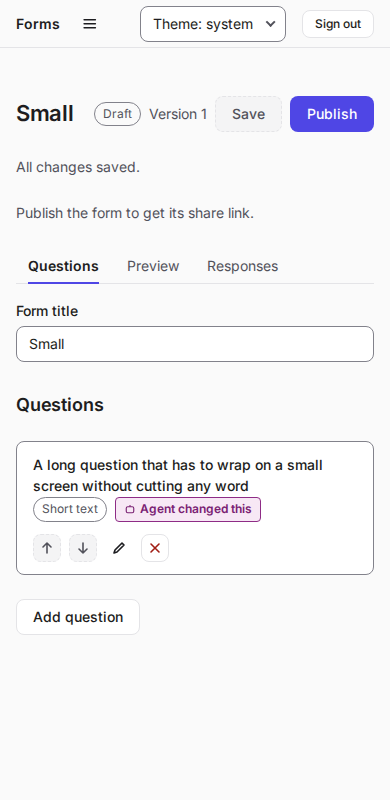
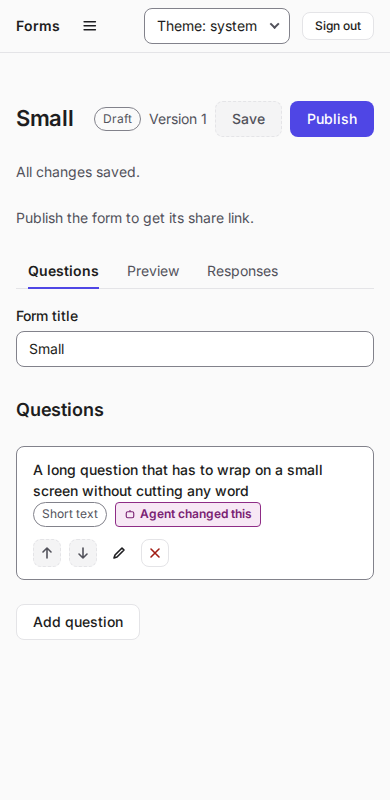
Accept agentic-design 0.8 and release 0.11.1
The agentic-design range was ^0.5.0, so the agentic-* packages could
not be installed together (ERESOLVE). Raise it to ^0.8.0 and update
the lockfile. The UI needed no code change. The e2e run regenerated
the docs screenshots with the newer look.

Bump the package to 0.11.1 and add a CHANGELOG entry.

diff --git a/CHANGELOG.md b/CHANGELOG.md
@@ -2,6 +2,12 @@
 
 This file lists what changed in each release. The versions follow semver. The API can still change before 1.0.
 
+## 0.11.1 - 2026-10-29
+
+### Changed
+
+- Move to `agentic-design` 0.8.x. The package depends on `^0.8.0` now, so it installs next to the other `agentic-*` packages without an `ERESOLVE` error. The UI picks up the calmer look of `agentic-design` 0.5 and later. The screenshots in `docs/screenshots` are regenerated from the new look. No public API changes.
+
 ## 0.11.0 - 2026-10-29
 
 ### Added
